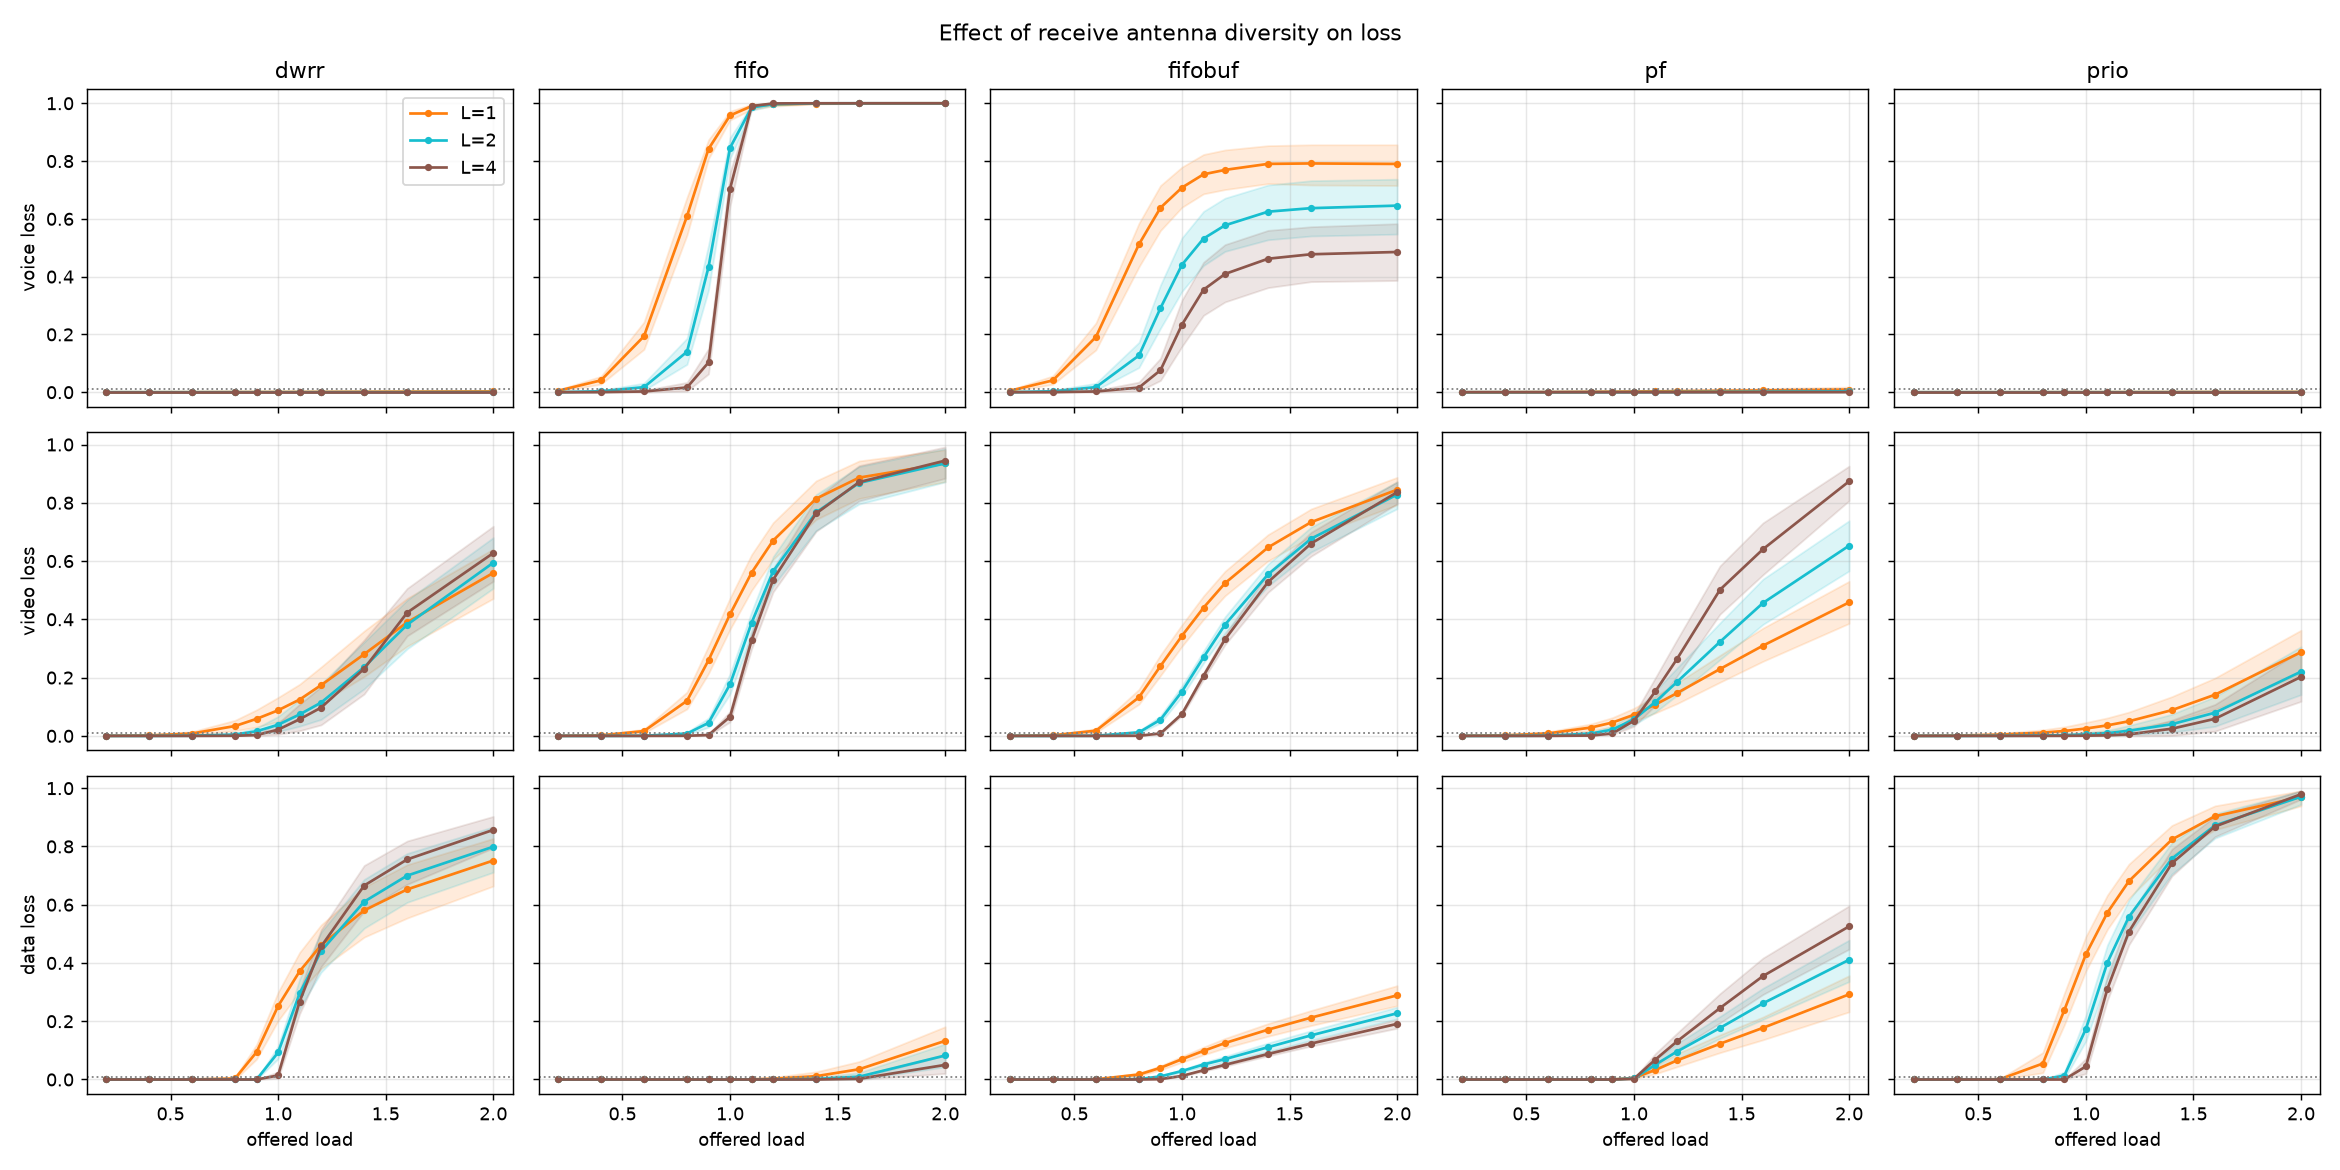
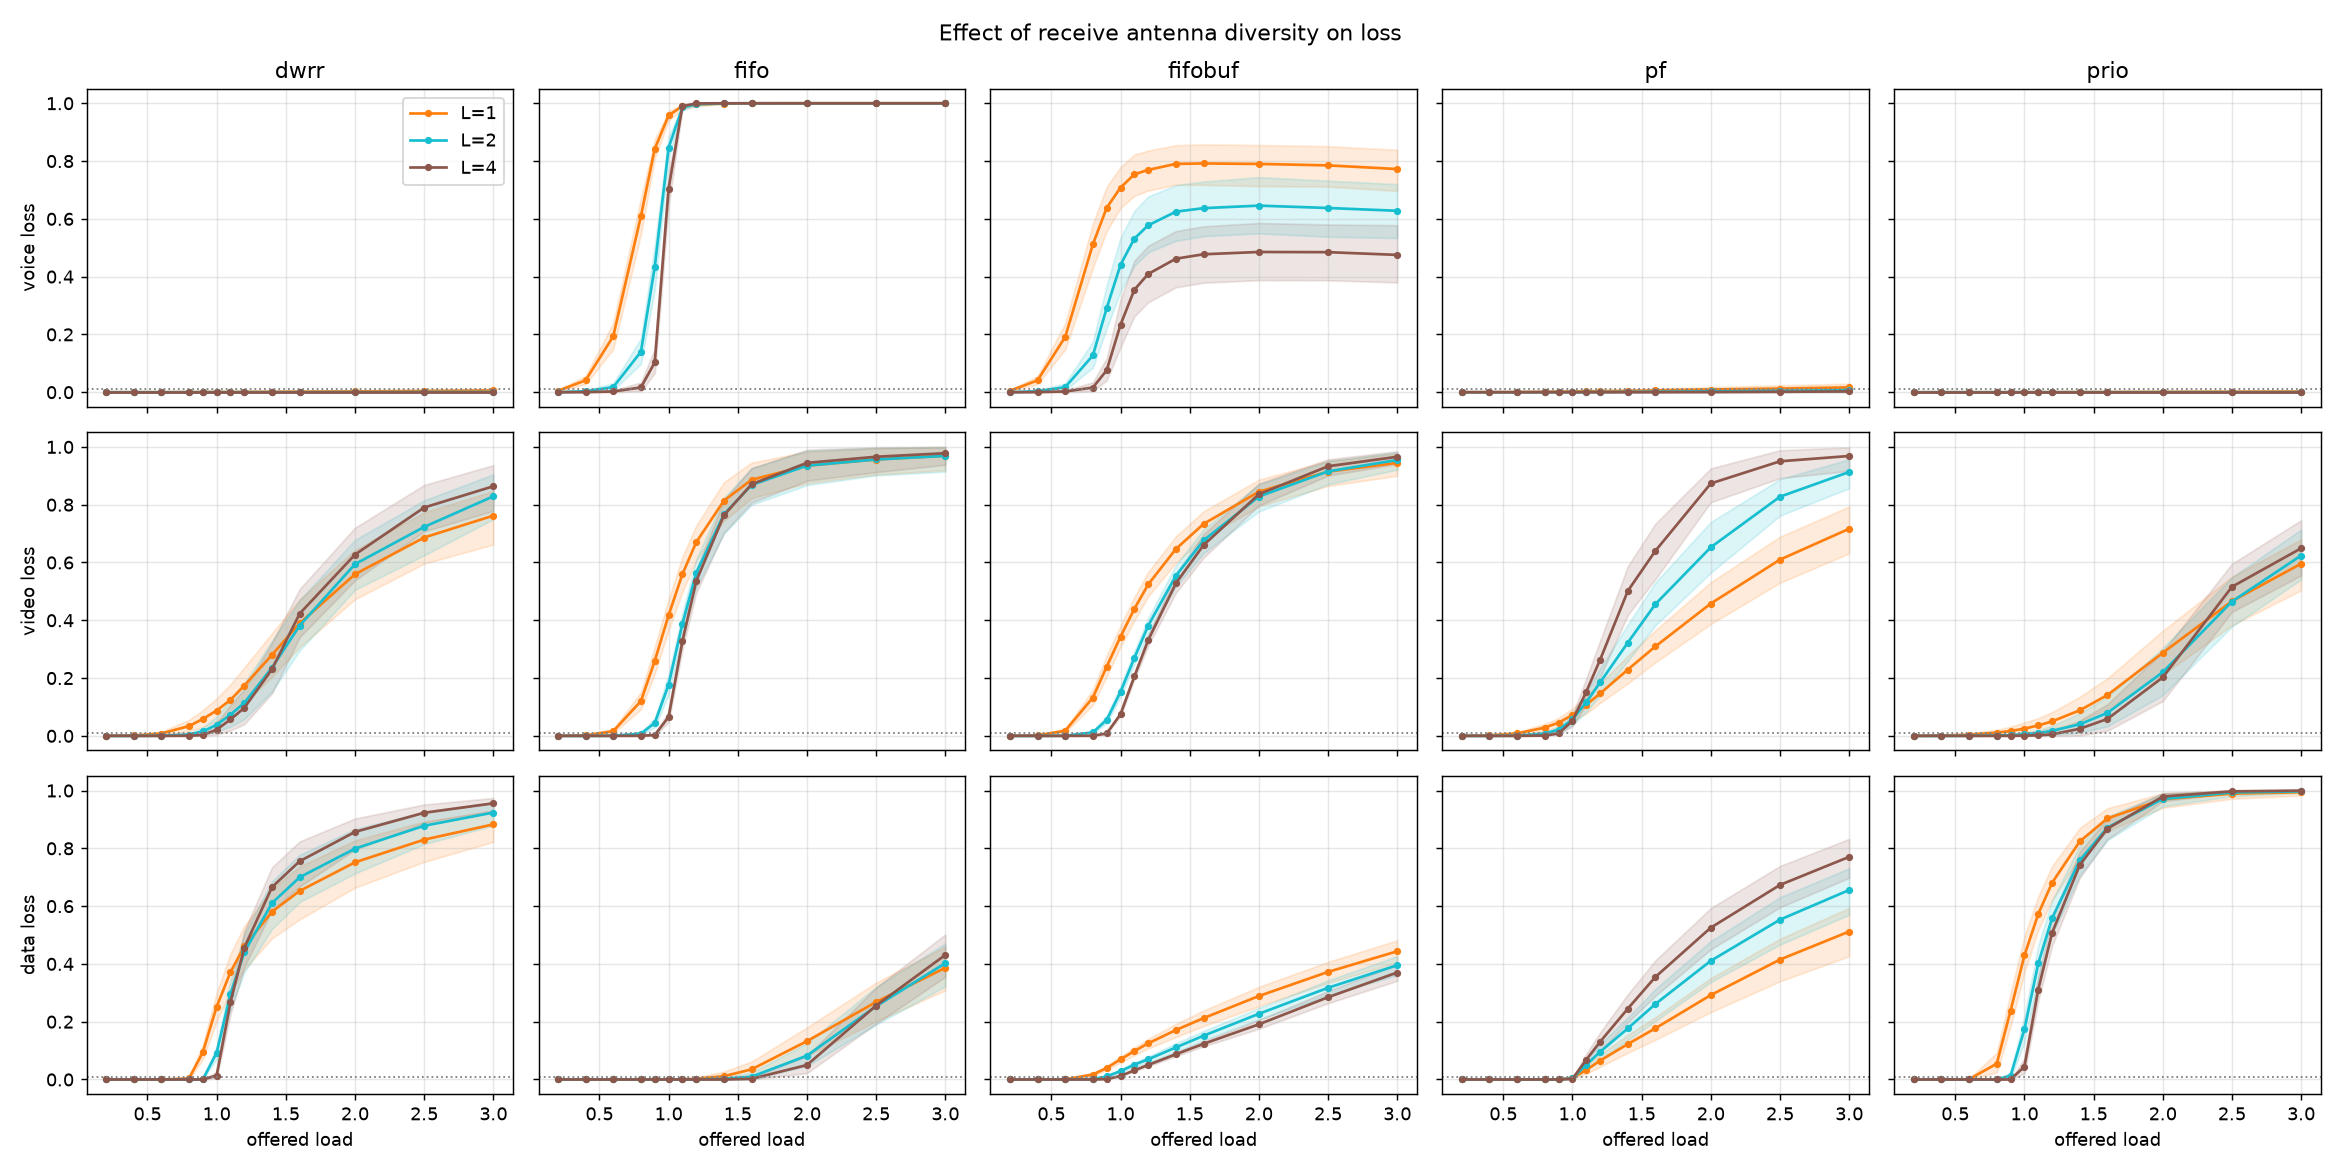
Extend load grid to 3.0 and validate the cell against theory
Add loads 2.5 and 3.0 to the main sweep, regenerate reports, and add link-budget and Rayleigh ergodic spectral efficiency tests. README and plan updated.

diff --git a/tests/test_cell.py b/tests/test_cell.py
@@ -48,3 +48,38 @@ def test_diversity_raises_mean_spectral_efficiency():
     c1 = generate_cell(2000, CellConfig(channel=ChannelConfig(antennas=1, speed_mps=30.0), **kw), 5)
     c4 = generate_cell(2000, CellConfig(channel=ChannelConfig(antennas=4, speed_mps=30.0), **kw), 5)
     assert c4.se.mean() > c1.se.mean()
+
+
+def test_static_spectral_efficiency_matches_hand_computed_link_budget():
+    # Link budget written out independently of the channel module: free-space loss at 1 m plus
+    # 10 n log10(d), thermal noise -174 dBm/Hz + 10 log10(B) + NF, Shannon rate capped at se_max
+    ch = ChannelConfig(fading=False, shadow_sigma_db=0.0)
+    cfg = CellConfig(n_users=5, channel=ch)
+    cell = generate_cell(3, cfg, seed=11)
+    for d, se in zip(cell.distance_m, cell.se[:, 0]):
+        pl = 20 * np.log10(4 * np.pi * 3.5e9 / 3e8) + 35.0 * np.log10(d)
+        noise = -174.0 + 10 * np.log10(360e3) + 7.0
+        snr = 10 ** ((23.0 - pl - noise) / 10)
+        assert abs(se - min(np.log2(1 + snr), 7.4)) < 1e-3
+
+
+def _ergodic_se(snr_db: float, antennas: int, se_max: float = 7.4) -> float:
+    """E[min(log2(1 + snr G), se_max)] for G ~ Gamma(L, 1) by numerical integration."""
+    from math import lgamma
+    g = np.linspace(1e-6, 60.0, 400_000)
+    pdf = np.exp((antennas - 1) * np.log(g) - g - lgamma(antennas))
+    f = np.minimum(np.log2(1 + 10 ** (snr_db / 10) * g), se_max)
+    return float(np.sum(f * pdf) * (g[1] - g[0]))
+
+
+def test_mean_spectral_efficiency_matches_rayleigh_theory():
+    # A fast-moving user in Rayleigh fading (L-branch MRC) has ergodic SE = E[log2(1 + snr G)]
+    for antennas in (1, 4):
+        ch = ChannelConfig(antennas=antennas, shadow_sigma_db=0.0, speed_mps=60.0)
+        cfg = CellConfig(n_users=1, r_min_m=150, r_max_m=150.001, channel=ch)
+        cell = generate_cell(300_000, cfg, seed=2)
+        snr_db = 23.0 - (20 * np.log10(4 * np.pi * 3.5e9 / 3e8)
+                         + 35.0 * np.log10(cell.distance_m[0])) - (-174.0 + 10 * np.log10(360e3)
+                                                                   + 7.0)
+        theory = _ergodic_se(snr_db, antennas)
+        assert abs(cell.se.mean() / theory - 1) < 0.03, (antennas, cell.se.mean(), theory)

diff --git a/analysis/experiments.py b/analysis/experiments.py
@@ -21,7 +21,7 @@ from sim.run import POLICY_NAMES, simulate
 
 ROOT = Path(__file__).resolve().parent.parent
 RESULTS = ROOT / "results"
-LOADS = [0.2, 0.4, 0.6, 0.8, 0.9, 1.0, 1.1, 1.2, 1.4, 1.6, 2.0]
+LOADS = [0.2, 0.4, 0.6, 0.8, 0.9, 1.0, 1.1, 1.2, 1.4, 1.6, 2.0, 2.5, 3.0]
 ANTENNAS = [1, 2, 4]
 KEY = ["policy", "load", "antennas", "seed"]
 

diff --git a/README.md b/README.md
@@ -21,7 +21,7 @@ The channel is validated against theory (outage probability follows Gamma(L, 1) 
 
 ## Results
 
-Setup: one cell with 50 PRBs (360 kHz, 1 ms slots), 10 users uniform over 20-300 m (4 voice, 3 video, 3 data), Rayleigh fading with 1.5 m/s mobility, 10 s per run, 30 seeds, 95% bootstrap intervals. **Load 1 is the point where the offered bits would use every PRB** at each user's mean rate. A packet that cannot meet its deadline (voice 20 ms, video 50 ms, data 500 ms) is dropped. Policies: FIFO (oldest packet first, deadline drops only), FIFO with a 20 ms shared tail-drop buffer (`fifobuf`), strict priority (`prio`), DWRR with weights 8/4/2 (`dwrr`), and class-blind proportional fair (`pf`). Single receive antenna unless stated.
+Setup: one cell with 50 PRBs (360 kHz, 1 ms slots), 10 users uniform over 20-300 m (4 voice, 3 video, 3 data), Rayleigh fading with 1.5 m/s mobility, 10 s per run, 30 seeds, 95% bootstrap intervals (loads 0.2 to 3.0). **Load 1 is the point where the offered bits would use every PRB** at each user's mean rate. A packet that cannot meet its deadline (voice 20 ms, video 50 ms, data 500 ms) is dropped. Policies: FIFO (oldest packet first, deadline drops only), FIFO with a 20 ms shared tail-drop buffer (`fifobuf`), strict priority (`prio`), DWRR with weights 8/4/2 (`dwrr`), and class-blind proportional fair (`pf`). Single receive antenna unless stated.
 
 ### Who wins and who loses under congestion
 
@@ -44,19 +44,19 @@ Priority over FIFO at load 1.2, paired over seeds: voice -99.6 percentage points
 
 ### Load each class can carry (>= 99% delivered)
 
-Highest load at which the class still delivers 99% of its packets, one antenna. Voice values for priority, DWRR and PF are lower bounds (the load grid stops at 2.0).
+Highest load at which the class still delivers 99% of its packets, one antenna. Voice values for priority, DWRR and PF are lower bounds: most seeds never violate the 99% target up to the highest simulated load, 3.0.
 
 | Class | FIFO | FIFO + buffer | Priority | DWRR | PF |
 |---|---|---|---|---|---|
-| Voice | 0.30 | 0.30 | >= 1.97 | >= 1.93 | >= 1.85 |
-| Video | 0.57 | 0.54 | 1.17 | 0.89 | 0.79 |
-| Data | 1.69 | 0.80 | 0.73 | 0.92 | 1.26 |
+| Voice | 0.30 | 0.30 | >= 2.91 | >= 2.82 | >= 2.59 |
+| Video | 0.57 | 0.54 | 1.21 | 0.92 | 0.82 |
+| Data | 1.90 | 0.80 | 0.73 | 0.92 | 1.36 |
 
 ### Antenna diversity
 
 ![Effect of diversity](results/main_diversity.png)
 
-More receive antennas (MRC, L = 1, 2, 4) raise the load every class can carry, for every policy. Video capacity under priority goes from 1.17 to 1.70, and under FIFO from 0.57 to 0.93; voice under FIFO from 0.30 to 0.80. Diversity helps most the classes that were being hurt by deep fades. An exception: PF gets *worse* for video and data with more antennas (video loss at load 1.2 goes from 14.7% to 26.4%), because diversity flattens the fading peaks that PF exploits.
+More receive antennas (MRC, L = 1, 2, 4) raise the load that voice and video can carry under every policy. Video capacity under priority goes from 1.21 to 1.75, and under FIFO from 0.57 to 0.93; voice under FIFO from 0.30 to 0.80. Diversity helps most the classes that were being hurt by deep fades. An exception is PF, which gets *worse* for video and data with more antennas (video loss at load 1.2 goes from 14.7% to 26.4%, and its data capacity falls from 1.36 to about 1.1), because diversity flattens the fading peaks that PF exploits.
 
 ### Cell centre versus cell edge
 
@@ -79,7 +79,7 @@ One assumption was changed at a time (data deadline 100 ms / 2000 ms, voice dead
 - The traffic mix, deadlines and DWRR weights are modelling choices, not measured values; the sensitivity study shows which results depend on them.
 - Load 1 is relative to each seed's realisation, so it varies slightly between seeds.
 - Service spent on a packet that then misses its deadline is wasted, so goodput under overload is below the cell capacity.
-- Voice capacity of the protected policies is censored at load 2.0.
+- Voice capacity of the protected policies is censored at load 3.0 (it is a lower bound, because voice is a small share of the total traffic).
 
 Raw outputs: `results/main_*.csv` (summary, paired differences, capacity, edge/centre, fairness) and `results/sens_*.csv`.
 
